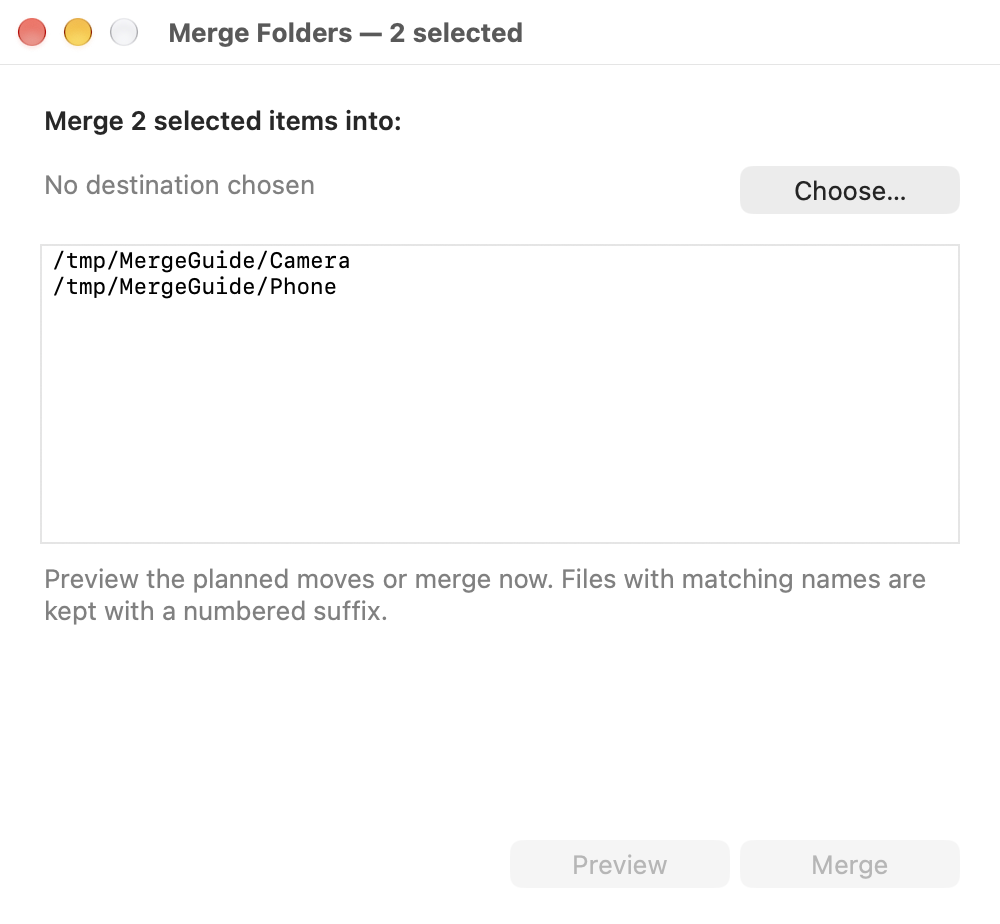
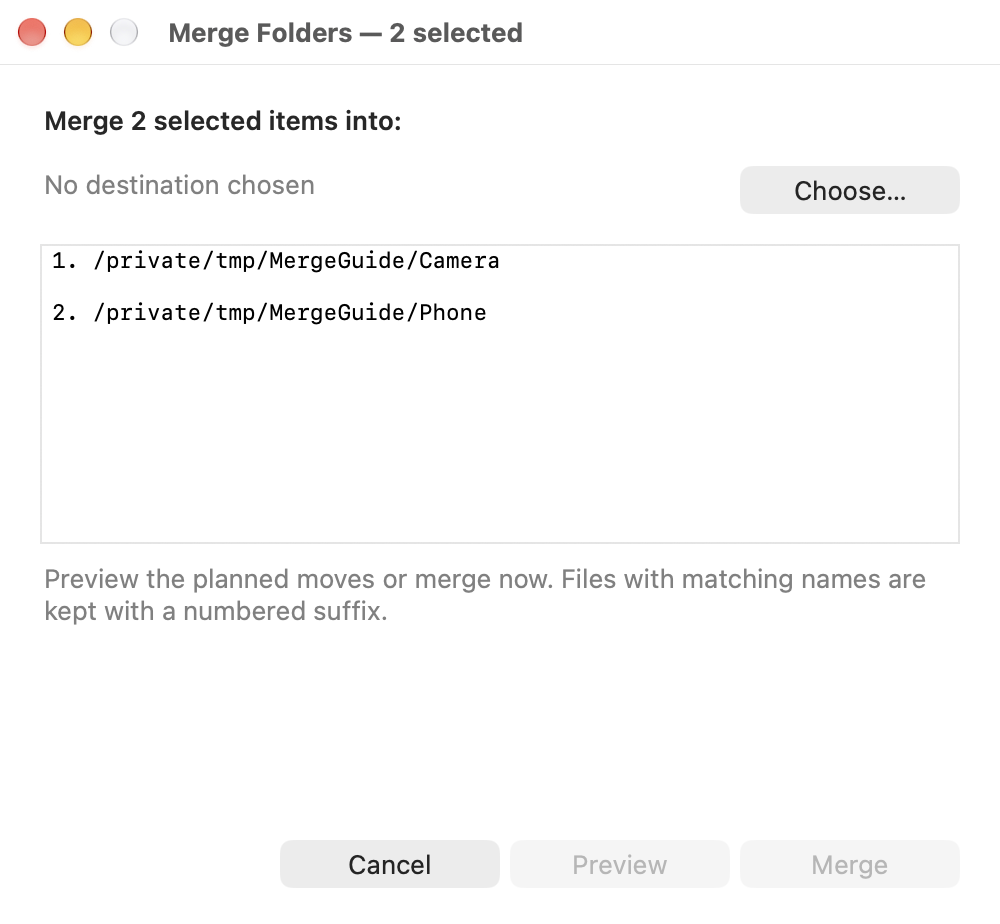
Add Done/Cancel actions, focus merge window on launch, refresh screenshots

Changed region(s): [[0.031, 0.2727, 0.496, 0.3636], [0.341, 0.9091, 0.434, 0.9697]]

diff --git a/finder/HostApp.swift b/finder/HostApp.swift
@@ -15,8 +15,11 @@ final class AppDelegate: NSObject, NSApplicationDelegate {
     private let selectionText = NSTextView()
     private var previewButton: NSButton!
     private var mergeButton: NSButton!
+    private var cancelButton: NSButton!
     private var statusLabel: NSTextField!
     private var spinner: NSProgressIndicator!
+    private var activeProcess: Process?
+    private var cancelled = false
 
     private static let logURL = FileManager.default
         .homeDirectoryForCurrentUser
@@ -54,9 +57,9 @@ final class AppDelegate: NSObject, NSApplicationDelegate {
             buildMergeWindow()
         }
         window.center()
+        NSApp.activate(ignoringOtherApps: true)
         window.makeKeyAndOrderFront(nil)
         if !sources.isEmpty { Self.appendLog("Opened merge window for \(sources.count) selected items.\n") }
-        NSApp.activate(ignoringOtherApps: true)
     }
 
     func applicationShouldTerminateAfterLastWindowClosed(_ sender: NSApplication) -> Bool { true }
@@ -132,7 +135,7 @@ final class AppDelegate: NSObject, NSApplicationDelegate {
         text.isEditable = false
         text.drawsBackground = false
         text.font = .monospacedSystemFont(ofSize: 11, weight: .regular)
-        text.string = sources.map(\.path).joined(separator: "\n")
+        text.string = formattedSources()
         scroll.documentView = text
 
         statusLabel = NSTextField(wrappingLabelWithString: "Preview the planned moves or merge now. Files with matching names are kept with a numbered suffix.")
@@ -143,6 +146,11 @@ final class AppDelegate: NSObject, NSApplicationDelegate {
         spinner.style = .spinning
         spinner.isDisplayedWhenStopped = false
         add(spinner, frame: NSRect(x: 20, y: 20, width: 20, height: 20))
+
+        cancelButton = NSButton(title: "Cancel", target: self, action: #selector(cancel))
+        cancelButton.bezelStyle = .rounded
+        cancelButton.keyEquivalent = "\u{1b}"
+        add(cancelButton, frame: NSRect(x: 140, y: 14, width: 110, height: 32))
 
         previewButton = NSButton(title: "Preview", target: self, action: #selector(preview))
         previewButton.bezelStyle = .rounded
@@ -193,7 +201,7 @@ final class AppDelegate: NSObject, NSApplicationDelegate {
         guard panel.runModal() == .OK, let url = panel.url else { return }
 
         destination = url
-        selectionText.string = sources.map(\.path).joined(separator: "\n")
+        selectionText.string = formattedSources()
         statusLabel.stringValue = "Preview the planned moves or merge now."
         statusLabel.textColor = .secondaryLabelColor
         previewButton.isEnabled = true
@@ -202,11 +210,28 @@ final class AppDelegate: NSObject, NSApplicationDelegate {
         mergeButton.isEnabled = true
     }
 
+    private func formattedSources() -> String {
+        sources.enumerated()
+            .map { "\($0.offset + 1). \($0.element.path)" }
+            .joined(separator: "\n\n")
+    }
+
     @objc private func openDestination() {
         if let destination { NSWorkspace.shared.open(destination) }
     }
 
     @objc private func closeWindow() { window.close() }
+
+    @objc private func cancel() {
+        if let process = activeProcess, process.isRunning {
+            cancelled = true
+            cancelButton.isEnabled = false
+            statusLabel.stringValue = "Cancelling…"
+            process.terminate()
+        } else {
+            window.close()
+        }
+    }
 
     @objc private func preview() { runMerge(preview: true) }
 
@@ -219,6 +244,7 @@ final class AppDelegate: NSObject, NSApplicationDelegate {
             return
         }
 
+        cancelled = false
         mergeButton.isEnabled = false
         previewButton.isEnabled = false
         chooseButton.isEnabled = false
@@ -234,6 +260,7 @@ final class AppDelegate: NSObject, NSApplicationDelegate {
             process.arguments = arguments
             process.standardOutput = pipe
             process.standardError = pipe
+            DispatchQueue.main.sync { self.activeProcess = process }
 
             let output: String
             let failed: Bool
@@ -253,7 +280,9 @@ final class AppDelegate: NSObject, NSApplicationDelegate {
             }
 
             DispatchQueue.main.async {
+                self.activeProcess = nil
                 self.spinner.stopAnimation(nil)
+                let wasCancelled = self.cancelled
                 if !preview && !failed {
                     self.chooseButton.title = "Open Folder"
                     self.chooseButton.action = #selector(self.openDestination)
@@ -262,16 +291,25 @@ final class AppDelegate: NSObject, NSApplicationDelegate {
                     self.mergeButton.action = #selector(self.closeWindow)
                     self.previewButton.keyEquivalent = ""
                     self.mergeButton.keyEquivalent = "\r"
+                    self.cancelButton.isHidden = true
                 }
                 self.chooseButton.isEnabled = true
+                self.cancelButton.isEnabled = true
                 self.previewButton.isEnabled = preview || failed
                 self.mergeButton.isEnabled = true
-                self.selectionText.string = output
+                self.selectionText.string = wasCancelled
+                    ? "Cancelled. Files already moved remain in the destination."
+                    : output
                 self.selectionText.scrollToBeginningOfDocument(nil)
-                self.statusLabel.textColor = failed ? .systemRed : .labelColor
-                self.statusLabel.stringValue = output.isEmpty
-                    ? (failed ? "The merge failed." : "Done.")
-                    : (output.components(separatedBy: "\n").last ?? output)
+                if wasCancelled {
+                    self.statusLabel.textColor = .secondaryLabelColor
+                    self.statusLabel.stringValue = "Cancelled."
+                } else {
+                    self.statusLabel.textColor = failed ? .systemRed : .labelColor
+                    self.statusLabel.stringValue = output.isEmpty
+                        ? (failed ? "The merge failed." : "Done.")
+                        : (output.components(separatedBy: "\n").last ?? output)
+                }
             }
         }
     }
